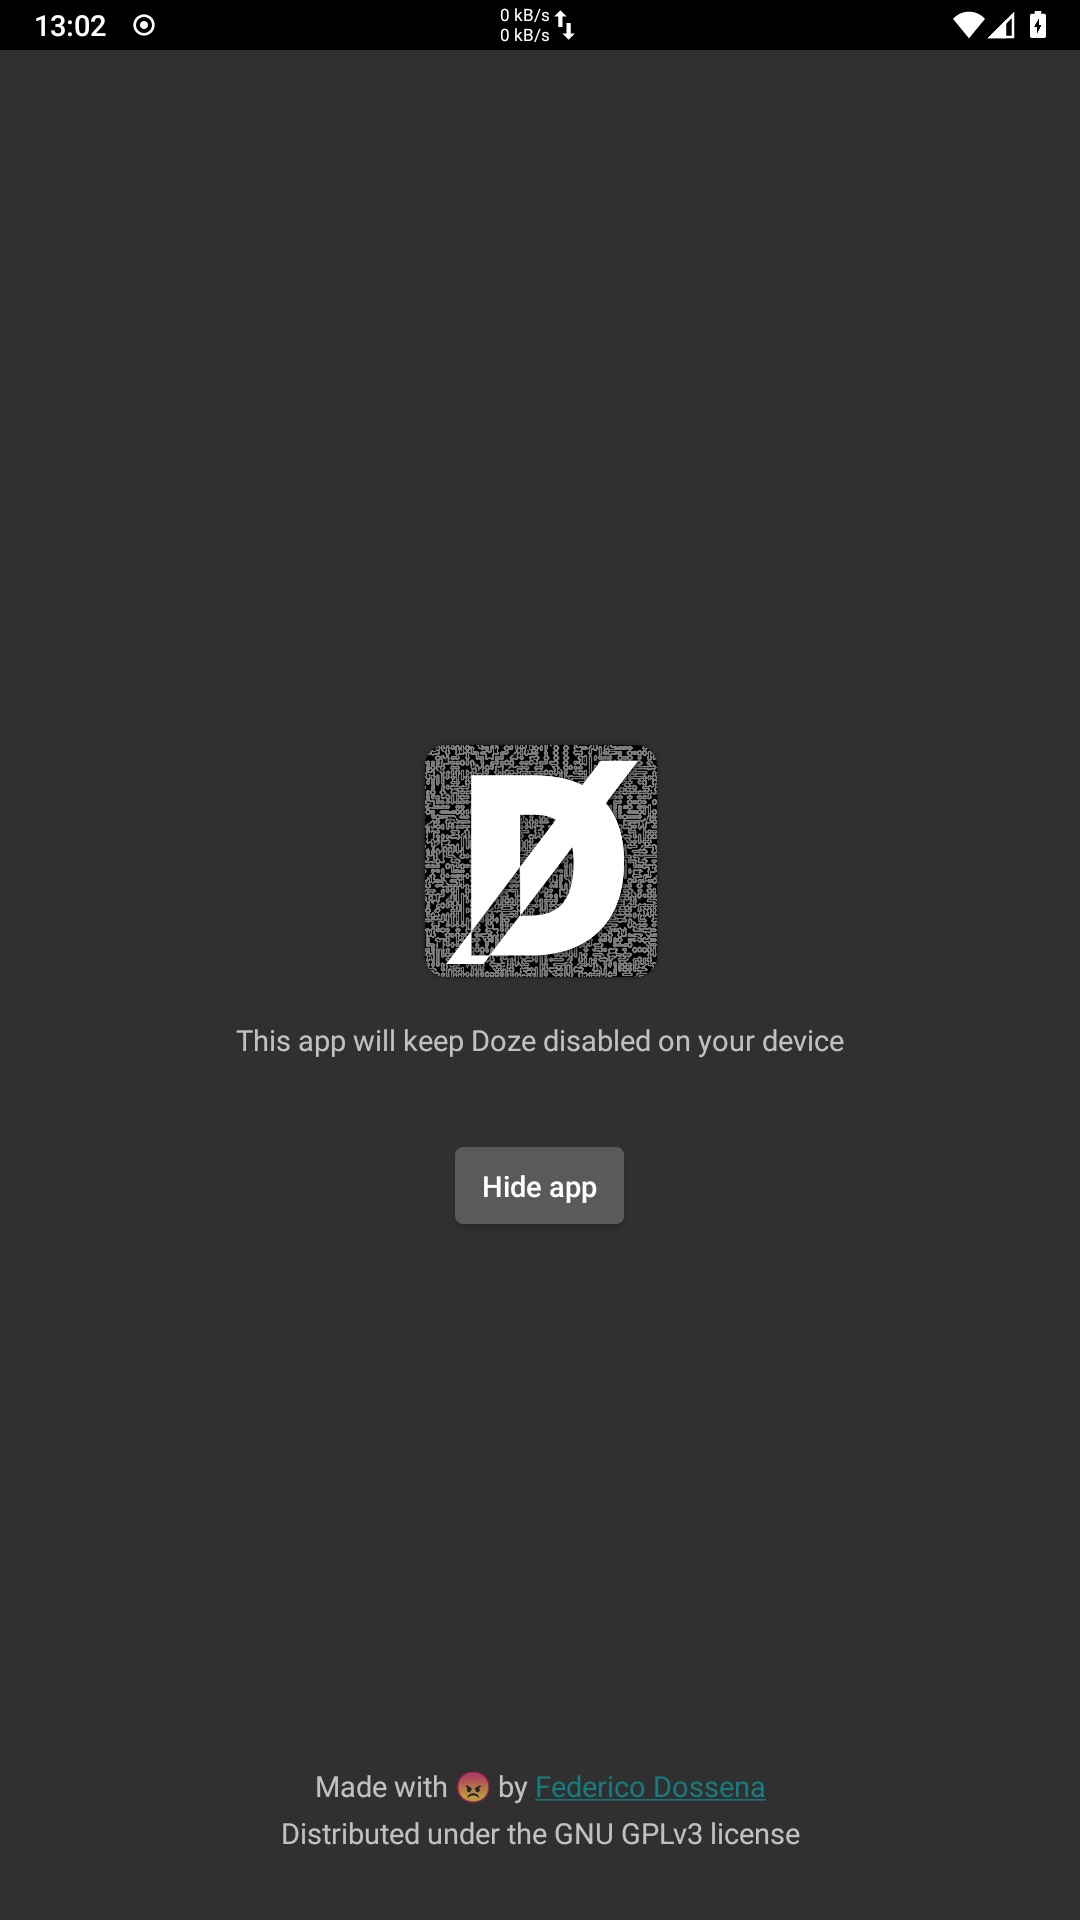
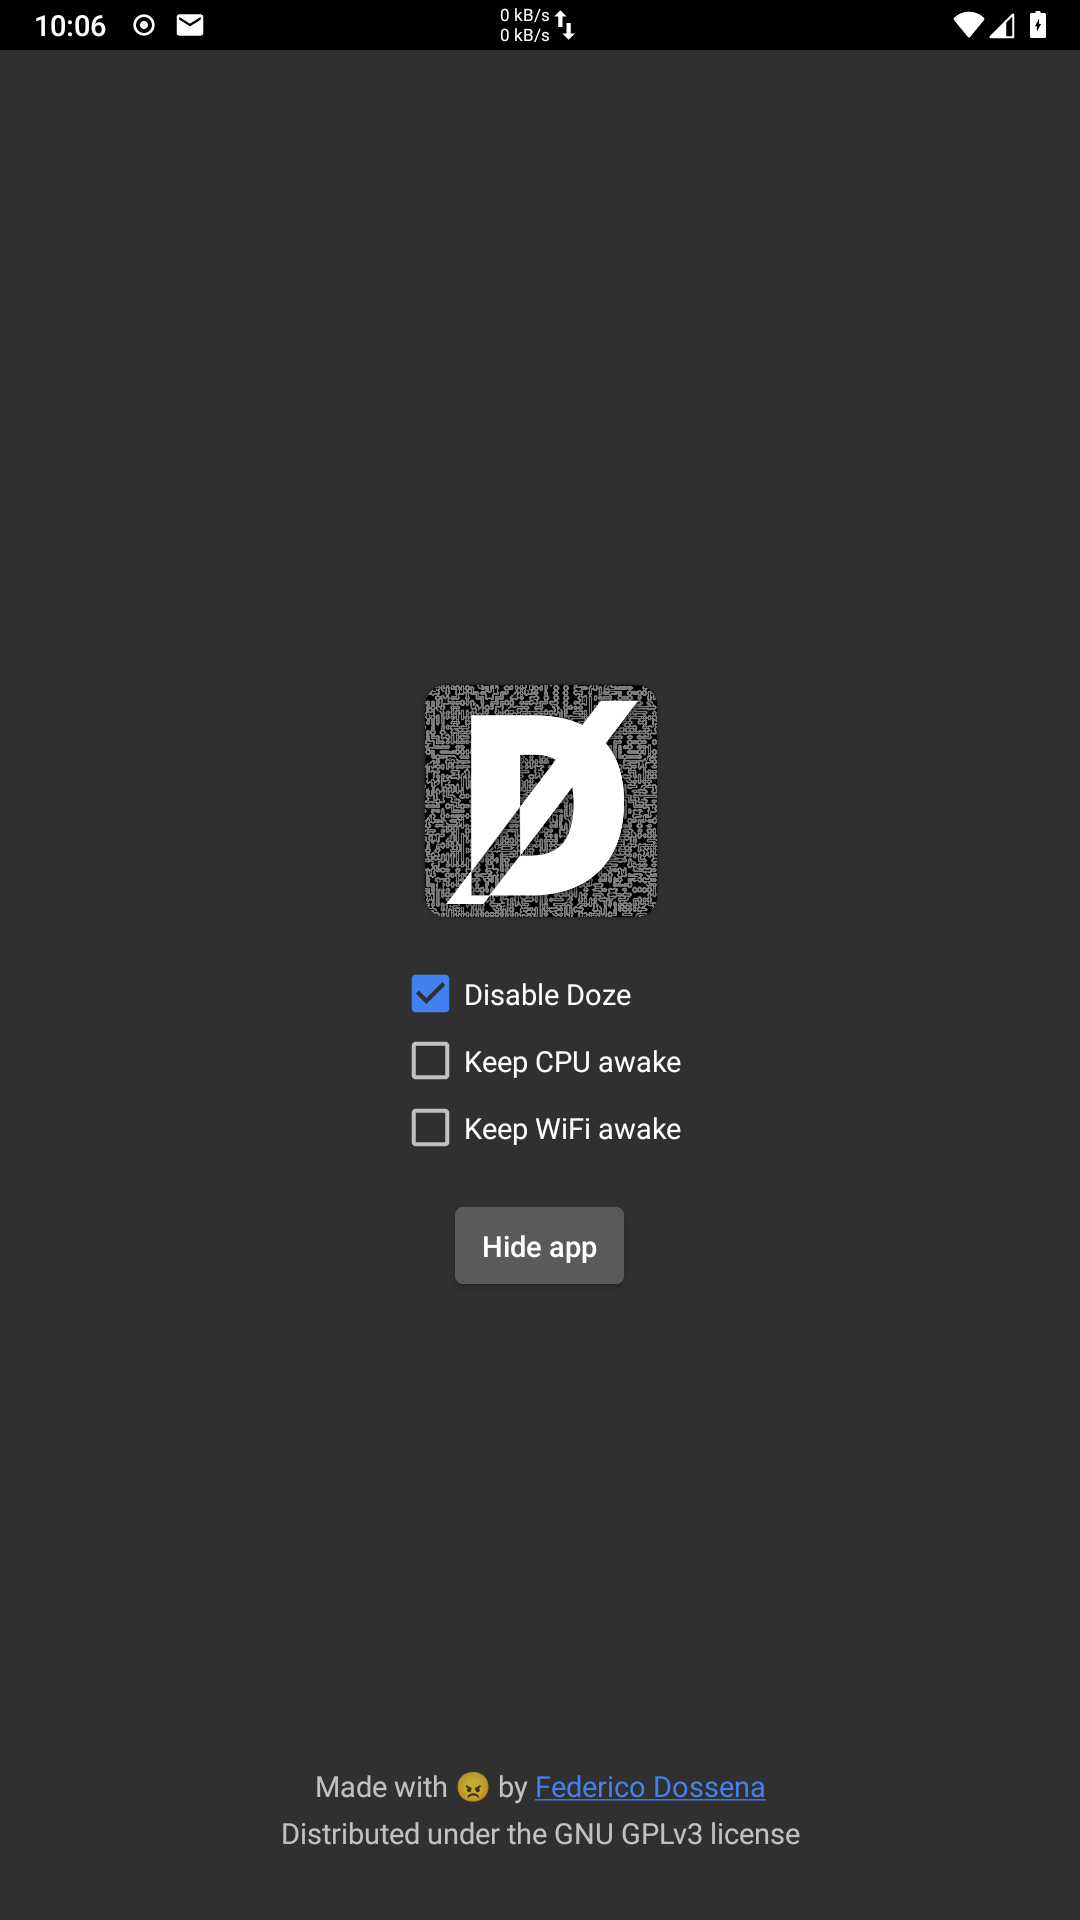
Version 1.1

diff --git a/DozeOff/app/src/main/java/com/dosse/dozeoff/MainActivity.java b/DozeOff/app/src/main/java/com/dosse/dozeoff/MainActivity.java
@@ -5,10 +5,12 @@ import android.app.AlertDialog;
 import android.content.ComponentName;
 import android.content.DialogInterface;
 import android.content.Intent;
+import android.content.SharedPreferences;
 import android.content.pm.PackageManager;
 import android.net.Uri;
 import android.os.Bundle;
 import android.view.View;
+import android.widget.CheckBox;
 import android.widget.TextView;
 import android.widget.Toast;
 
@@ -18,8 +20,33 @@ public class MainActivity extends Activity {
         super.onCreate(savedInstanceState);
         setContentView(R.layout.activity_main);
         if(Utils.isRooted()){
-            ((TextView)findViewById(R.id.main_text)).setText(R.string.main_description);
-            findViewById(R.id.main_hideBtn).setEnabled(true);
+            findViewById(R.id.main_text).setVisibility(View.INVISIBLE);
+            findViewById(R.id.settingsArea).setVisibility(View.VISIBLE);
+            SharedPreferences prefs=Utils.getPreferences(getApplicationContext());
+            ((CheckBox)findViewById(R.id.doze_off)).setChecked(prefs.getBoolean("doze_off",true));
+            ((CheckBox)findViewById(R.id.wakelock_cpu)).setChecked(prefs.getBoolean("wakelock_cpu",false));
+            ((CheckBox)findViewById(R.id.wakelock_wifi)).setChecked(prefs.getBoolean("wakelock_wifi",false));
+            findViewById(R.id.doze_off).setOnClickListener(new View.OnClickListener() {
+                @Override
+                public void onClick(View v) {
+                    prefs.edit().putBoolean("doze_off",((CheckBox)findViewById(R.id.doze_off)).isChecked());
+                    applySettings();
+                }
+            });
+            findViewById(R.id.wakelock_cpu).setOnClickListener(new View.OnClickListener() {
+                @Override
+                public void onClick(View v) {
+                    prefs.edit().putBoolean("wakelock_cpu",((CheckBox)findViewById(R.id.wakelock_cpu)).isChecked());
+                    applySettings();
+                }
+            });
+            findViewById(R.id.wakelock_wifi).setOnClickListener(new View.OnClickListener() {
+                @Override
+                public void onClick(View v) {
+                    prefs.edit().putBoolean("wakelock_wifi",((CheckBox)findViewById(R.id.wakelock_wifi)).isChecked());
+                    applySettings();
+                }
+            });
             findViewById(R.id.main_hideBtn).setOnClickListener(new View.OnClickListener() {
                 @Override
                 public void onClick(View v) {
@@ -29,7 +56,7 @@ public class MainActivity extends Activity {
                     DialogInterface.OnClickListener l = new DialogInterface.OnClickListener() {
                         @Override
                         public void onClick(DialogInterface dialog, int which) {
-                            if(which==DialogInterface.BUTTON_POSITIVE){	//delete confirmed
+                            if(which==DialogInterface.BUTTON_POSITIVE){	//hide confirmed
                                 PackageManager p = getApplicationContext().getPackageManager();
                                 p.setComponentEnabledSetting(new ComponentName(getApplicationContext(), MainActivity.class), PackageManager.COMPONENT_ENABLED_STATE_DISABLED, PackageManager.DONT_KILL_APP);
                                 Toast.makeText(getApplicationContext(), getString(R.string.hide_clicked), Toast.LENGTH_LONG).show();
@@ -42,10 +69,11 @@ public class MainActivity extends Activity {
                     builder.show();
                 }
             });
-            DozeKiller.killDoze(getApplicationContext());
+            DozeKiller.apply(getApplicationContext());
         }else{
             ((TextView)findViewById(R.id.main_text)).setText(R.string.main_notRooted);
-            findViewById(R.id.main_hideBtn).setEnabled(false);
+            findViewById(R.id.main_text).setVisibility(View.VISIBLE);
+            findViewById(R.id.settingsArea).setVisibility(View.INVISIBLE);
         }
         findViewById(R.id.main_dev).setOnClickListener(new View.OnClickListener() {
             @Override
@@ -57,4 +85,27 @@ public class MainActivity extends Activity {
         });
 
     }
+
+    @Override
+    protected void onResume() {
+        super.onResume();
+        onCreate(null);
+    }
+
+    private void applySettings(){
+        findViewById(R.id.doze_off).setEnabled(false);
+        findViewById(R.id.wakelock_cpu).setEnabled(false);
+        findViewById(R.id.wakelock_wifi).setEnabled(false);
+        long ts=System.currentTimeMillis();
+        DozeKiller.apply(getApplicationContext());
+        long msToWait=300-(System.currentTimeMillis()-ts);
+        try {
+            if(msToWait>0) Thread.sleep(msToWait); //prevent the user from changing the settings too quickly
+        }catch (Throwable t){
+        }
+        findViewById(R.id.doze_off).setEnabled(true);
+        findViewById(R.id.wakelock_cpu).setEnabled(true);
+        findViewById(R.id.wakelock_wifi).setEnabled(true);
+    }
+
 }

diff --git a/DozeOff/app/src/main/java/com/dosse/dozeoff/DozeKiller.java b/DozeOff/app/src/main/java/com/dosse/dozeoff/DozeKiller.java
@@ -3,23 +3,64 @@ package com.dosse.dozeoff;
 import android.content.BroadcastReceiver;
 import android.content.Context;
 import android.content.Intent;
+import android.content.SharedPreferences;
+import android.net.wifi.WifiManager;
+import android.os.PowerManager;
+import android.util.Log;
 import android.widget.Toast;
 
 import java.io.OutputStream;
 
 public class DozeKiller extends BroadcastReceiver {
-    public static void killDoze(Context context) {
+
+    private static PowerManager.WakeLock cpuLock=null;
+    private static WifiManager.WifiLock wifiLock=null;
+
+    public static void apply(Context context) {
         try {
             if (!Utils.isRooted()) throw new Exception(context.getString(R.string.notRooted));
+            SharedPreferences prefs=Utils.getPreferences(context);
             Process p = Runtime.getRuntime().exec("su"); //open elevated shell
             OutputStream os = p.getOutputStream();
-            os.write(("dumpsys deviceidle disable\n").getBytes("ASCII")); //disable doze
+            if(prefs.getBoolean("doze_off",true)){
+                os.write(("dumpsys deviceidle disable\n").getBytes("ASCII")); //disable doze
+                Log.d("DozeOff","Doze disabled");
+            }else{
+                os.write(("dumpsys deviceidle enable\n").getBytes("ASCII")); //enable doze
+                Log.d("DozeOff","Doze enabled");
+            }
             os.flush();
             os.write("exit\n".getBytes("ASCII"));
             os.flush();
             os.close(); //close elevated shell
             p.waitFor(); //wait for it to actually terminate
-            Toast.makeText(context, context.getString(R.string.success), Toast.LENGTH_SHORT).show();
+            try {
+                //acquire a CPU wakelock
+                if(cpuLock!=null&&cpuLock.isHeld()){ //release preexisting wakelock if present
+                    cpuLock.release();
+                    cpuLock=null;
+                }
+                if(prefs.getBoolean("wakelock_cpu",false)) { //acquire CPU wakelock if requested
+                    cpuLock = ((PowerManager) context.getSystemService(Context.POWER_SERVICE)).newWakeLock(PowerManager.PARTIAL_WAKE_LOCK, "DozeOff::CPULock");
+                    cpuLock.acquire();
+                }
+            }catch (Throwable t){
+                Log.d("DozeOff","CPU wakelock error");
+            }
+            try {
+                //acquire wifi wakelock
+                if(wifiLock!=null&&wifiLock.isHeld()){ //release preexisting wakelock if present
+                    wifiLock.release();
+                    wifiLock=null;
+                }
+                if(prefs.getBoolean("wakelock_wifi",false)) { //acquire wifi wakelock if requested
+                    wifiLock = ((WifiManager) context.getSystemService(Context.WIFI_SERVICE)).createWifiLock(WifiManager.WIFI_MODE_FULL_HIGH_PERF, "DozeOff::WifiLock");
+                    wifiLock.acquire();
+                }
+            }catch(Throwable t){
+                Log.d("DozeOff","Wifi wakelock error");
+            }
+            Log.d("DozeOff","Settings applied");
         } catch (Throwable t) {
             Toast.makeText(context, context.getString(R.string.error) + t.getMessage(), Toast.LENGTH_LONG).show();
         }
@@ -27,6 +68,6 @@ public class DozeKiller extends BroadcastReceiver {
 
     @Override
     public void onReceive(Context context, Intent intent) {
-        killDoze(context);
+        apply(context);
     }
 }

diff --git a/DozeOff/app/src/main/java/com/dosse/dozeoff/Utils.java b/DozeOff/app/src/main/java/com/dosse/dozeoff/Utils.java
@@ -1,5 +1,8 @@
 package com.dosse.dozeoff;
 
+import android.content.Context;
+import android.content.SharedPreferences;
+
 import java.io.File;
 
 public class Utils {
@@ -28,4 +31,9 @@ public class Utils {
         }
         return false;
     }
+
+    public static SharedPreferences getPreferences(Context context){
+        return context.getSharedPreferences("DozeOff",Context.MODE_PRIVATE);
+    }
+
 }

diff --git a/README.md b/README.md
@@ -5,7 +5,9 @@
 
 Since Doze was introduced in Android 6.0, it's been a constant source of pain for developers who can't keep background processes running reliably, and users who are constantly missing important notifications because the system automatically decides to kill background services. Some ROMs are worse than others, with MIUI being the worst offender and AOSP being somewhat tolerable.
 
-DozeOff automatically disables Doze when the system is booted on your rooted device, simple as that. There are no settings to tweak, you just install it and forget about it.
+DozeOff automatically disables Doze when the system is booted on your rooted device, simple as that.
+
+In addition to disabling Doze, you can also optionally keep the CPU and WiFi awake at all times, but this will drain the battery very quickly.
 
 ## Download
 
@@ -17,7 +19,7 @@ DozeOff automatically disables Doze when the system is booted on your rooted dev
 
 ## Supported devices
 Any **rooted** device running Android 6.0 and newer.  
-Tested on LineageOS 17.1
+Tested on LineageOS 17.1 and 18.1
 
 ## Donate
 [Donate with PayPal](https://www.paypal.me/sineisochronic)
@@ -26,7 +28,7 @@ Tested on LineageOS 17.1
 <img src="fastlane/metadata/android/en-US/images/phoneScreenshots/screen1.png" width="400" />
 
 ## License
-Copyright (C) 2020 Federico Dossena
+Copyright (C) 2020-2021 Federico Dossena
 
 This program is free software: you can redistribute it and/or modify
 it under the terms of the GNU General Public License as published by
